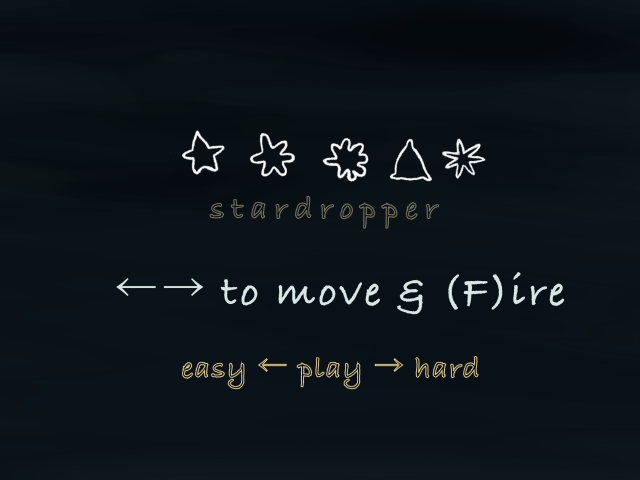
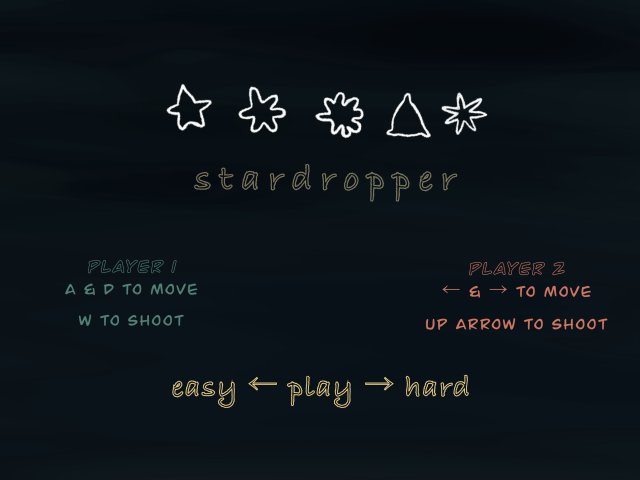
mostly finished, just need sound and fix star candy generate position, add one more burst image, adjust some sizing, then write write up and turn in!

diff --git a/src/scenes/Play.js b/src/scenes/Play.js
@@ -5,14 +5,15 @@ class Play extends Phaser.Scene{
 
  
 
-
     preload(){
         //load images/tiles sprite
         //load google webfont loader script
         this.load.script('webfont', '//ajax.googleapis.com/ajax/libs/webfont/1.4.7/webfont.js');
 
         //texture
-        this.load.image('rocket', 'assets/rocket.png');
+        //art done with pixilart.com 
+        this.load.image('rocket1', 'assets/rocket2.png');
+        this.load.image('rocket2', 'assets/rocket1.png');
         this.load.image('star1', 'assets/star1.png');
         this.load.image('star4', 'assets/star4.png');
         this.load.image('star5', 'assets/star5.png');
@@ -20,42 +21,51 @@ class Play extends Phaser.Scene{
         this.load.image('sky', 'assets/sky.png');
         //load burst128 atlas
         this.load.atlas('burst128', './assets/burst128.png', './assets/burst128.json');
-        //load spritesheet
-        this.load.spritesheet('explosion', './assets/explosion.png', {frameWidth: 64, frameHeight: 32, startFrame:0, endFrame: 9});
+        //load nebula atlas
+        this.load.atlas('nebula', './assets/nebulasprite.png', './assets/nebulasprite.json');
+        //load particle atlas
+        //this.load.atlas('particle', './assets/particles.png', './assets/particles.json');
     }
     create() {
     //override create() from phaser, which is blank
 
         //place tile sprite
         this.sky = this.add.tileSprite(0,0,640,480,"sky").setOrigin(0,0);
-       
+        
+        //top bar
+        this.add.rectangle(5,50,630,16,0xFFD85E).setOrigin(0,0);
         //bottom bar
-        this.add.rectangle(5,433,630,32,0xFFD85E).setOrigin(0,0) 
+        this.add.rectangle(5,433,630,16,0xFFD85E).setOrigin(0,0); 
        
         //declare rockets
-        this.p1Rocket = new Rocket(this, game.config.width/2, 420, 'rocket').setScale(0.5,0.5).setOrigin(0,0);
-        //this.p2Rocket = new Rocket(this, game.config.width/2, 420, 'rocket').setScale(0.5,0.5).setOrigin(0,0);
-        //add spaceships
-        //add more spaceships
-        this.shipHeight = (Math.floor(Math.random()*game.config.height-100)+100);
-        this.ship01 = new Spaceship(this, game.config.width +192, (Math.floor(Math.random()*game.config.height-80)+30), 'star5', 0, 30).setOrigin(0,0);
-        this.ship02 = new Spaceship(this, game.config.width +92, (Math.floor(Math.random()*game.config.height-80)+30), 'star4', 0, 20).setOrigin(0,0);
-        this.ship03 = new Spaceship(this, game.config.width , (Math.floor(Math.random()*game.config.height-80)+30), 'star3', 0, 10).setOrigin(0,0);
-        //define keyboard keys
-        keyF = this.input.keyboard.addKey(Phaser.Input.Keyboard.KeyCodes.F);
+        //P1
+        this.p1Rocket = new Rocket(this, game.config.width/2-100, 420, 'rocket1').setScale(0.5,0.5).setOrigin(0,0);
+        //P2
+        this.p2Rocket = new Rocket2(this, game.config.width/2+100, 420, 'rocket2').setScale(0.5,0.5).setOrigin(0,0);
+      
+
+        //add more spaceships FIX HEIGHT
+        this.ship01 = new Spaceship(this, game.config.width +192, (Math.floor(game.config.height/4)+10), 'star5', 0, 30).setOrigin(0,0);
+        this.ship02 = new Spaceship(this, game.config.width +92, (Math.floor(game.config.height/4)+25), 'star4', 0, 25).setOrigin(0,0);
+        this.ship03 = new Spaceship(this, game.config.width  , (Math.floor(game.config.height/4)+45), 'star3', 0, 20).setOrigin(0,0);
+        this.ship04 = new Spaceship(this, game.config.width +192, (Math.floor(game.config.height/4)+115), 'star4', 0, 10).setOrigin(0,0);
+        this.ship05 = new Spaceship(this, game.config.width +92, (Math.floor(game.config.height/4)+175), 'star5', 0, 5).setOrigin(0,0);
+        //define keyboard keys for player 1 (WAD)
+        keyW = this.input.keyboard.addKey(Phaser.Input.Keyboard.KeyCodes.W);
+        keyA = this.input.keyboard.addKey(Phaser.Input.Keyboard.KeyCodes.A);
+        keyD = this.input.keyboard.addKey(Phaser.Input.Keyboard.KeyCodes.D);
+
+        //define keyboard keys for player 2 (UPLEFTRIGHT)
+        keyUP = this.input.keyboard.addKey(Phaser.Input.Keyboard.KeyCodes.UP);
         keyLEFT = this.input.keyboard.addKey(Phaser.Input.Keyboard.KeyCodes.LEFT);
         keyRIGHT = this.input.keyboard.addKey(Phaser.Input.Keyboard.KeyCodes.RIGHT);
-
-
-        this.anims.create({
-            key: 'explode', 
-            frames: this.anims.generateFrameNumbers('explosion',{start:0, end:9, first:0}),
-            frameRate: 30
-        });
+        //reset key
+        keyF = this.input.keyboard.addKey(Phaser.Input.Keyboard.KeyCodes.F);
 
         //score 
         this.p1Score = 0;
 
+        this.p2Score = 0;
        
 
         //score + endscreen text display settings
@@ -72,17 +82,22 @@ class Play extends Phaser.Scene{
 
         }
 
+
         this.scoreLeft = this.add.text(-10, 15, this.p1Score + " ★", scoreConfig).setOrigin(0,0);
 
+        this.scoreRight = this.add.text(510, 15, this.p1Score + " ★", scoreConfig).setOrigin(0,0);
 
         // game over flag
         this.gameOver = false;
 
-        // 60-second play clock
+    
+        // endgame message
         scoreConfig.fixedWidth = 0;
+        var winner;
         this.clock = this.time.delayedCall(game.settings.gameTimer, ()=>{
-            this.add.text(game.config.width/2, game.config.height/2 - 200, 'GAME OVER', scoreConfig).setOrigin(0.5);
-            this.add.text(game.config.width/2, game.config.height/2 + 100, '(F)ire to restart or ← for Menu', scoreConfig).setOrigin(0.5);
+            if(this.scoreLeft > this.scoreRight){ winner = "player 1";} else {winner = "player 2";}
+            this.add.text(game.config.width/2, game.config.height/2 - 210, winner + ' wins!', scoreConfig).setOrigin(0.5);
+            this.add.text(game.config.width/2, game.config.height/2 + 225, 'Press F to restart or ← for Menu', scoreConfig).setOrigin(0.5);
             this.gameOver = true;
         }, null, this);
 
@@ -91,8 +106,6 @@ class Play extends Phaser.Scene{
     }
 
   
-
-
     update(){
         //check key input for restart
         if(this.gameOver && Phaser.Input.Keyboard.JustDown(keyF)){
@@ -102,37 +115,113 @@ class Play extends Phaser.Scene{
         this.sky.tilePositionX -=4;
 
         if (!this.gameOver){
-             //update rocket
+             //update rockets
             this.p1Rocket.update();
-            //update spaceship
+            this.p2Rocket.update();
+            //update spaceships
             this.ship01.update();
             this.ship02.update();
             this.ship03.update();
+            this.ship04.update();
+            this.ship05.update();
         }
         if (this.gameOver && Phaser.Input.Keyboard.JustDown(keyLEFT)){
             this.scene.start("menuScene");
         }
 
 
-        // check collisions
+        // check collisions for p1
         if(this.checkCollision(this.p1Rocket, this.ship03)){
             //console.log('kaboom ship 03');
             this.p1Rocket.reset();
             this.shipExplode(this.ship03);
+              //p1 score increment and repaint
+            this.p1Score += this.ship03.points;
+            this.scoreLeft.text = this.p1Score + " ★";
         }
 
         if(this.checkCollision(this.p1Rocket, this.ship02)){
             //console.log('kaboom ship 02');
             this.p1Rocket.reset();
             this.shipExplode(this.ship02);
+              //p1 score increment and repaint
+            this.p1Score += this.ship02.points;
+            this.scoreLeft.text = this.p1Score + " ★";
         }
 
         if(this.checkCollision(this.p1Rocket, this.ship01)){
             //console.log('kaboom ship 02');
             this.p1Rocket.reset();
             this.shipExplode(this.ship01);
+              //p1 score increment and repaint
+            this.p1Score += this.ship01.points;
+            this.scoreLeft.text = this.p1Score + " ★";
         }
 
+        if(this.checkCollision(this.p1Rocket, this.ship04)){
+            //console.log('kaboom ship 02');
+            this.p1Rocket.reset();
+            this.shipExplode(this.ship04);
+              //p1 score increment and repaint
+            this.p1Score += this.ship04.points;
+            this.scoreLeft.text = this.p1Score + " ★";
+        }
+
+        if(this.checkCollision(this.p1Rocket, this.ship05)){
+            //console.log('kaboom ship 02');
+            this.p1Rocket.reset();
+            this.shipExplode(this.ship05);
+              //p1 score increment and repaint
+            this.p1Score += this.ship05.points;
+            this.scoreLeft.text = this.p1Score + " ★";
+        }
+
+
+        // check collisions for p2
+        if(this.checkCollision(this.p1Rocket, this.ship03)){
+            //console.log('kaboom ship 03');
+            this.p2Rocket.reset();
+            this.shipExplode(this.ship03);
+             //p2 score increment and repaint
+            this.p2Score += this.ship03.points;
+            this.scoreRight.text = this.p2Score + " ★";
+        }
+
+        if(this.checkCollision(this.p2Rocket, this.ship02)){
+            //console.log('kaboom ship 02');
+            this.p2Rocket.reset();
+            this.shipExplode(this.ship02);
+             //p2 score increment and repaint
+            this.p2Score += this.ship02.points;
+            this.scoreRight.text = this.p2Score + " ★";
+        }
+
+        if(this.checkCollision(this.p2Rocket, this.ship01)){
+            //console.log('kaboom ship 02');
+            this.p2Rocket.reset();
+            this.shipExplode(this.ship01);
+             //p2 score increment and repaint
+            this.p2Score += this.ship01.points;
+            this.scoreRight.text = this.p2Score + " ★";
+        }
+
+        if(this.checkCollision(this.p2Rocket, this.ship04)){
+            //console.log('kaboom ship 02');
+            this.p2Rocket.reset();
+            this.shipExplode(this.ship04);
+             //p2 score increment and repaint
+            this.p2Score += this.ship04.points;
+            this.scoreRight.text = this.p2Score + " ★";
+        }
+
+        if(this.checkCollision(this.p2Rocket, this.ship05)){
+            //console.log('kaboom ship 02');
+            this.p2Rocket.reset();
+            this.shipExplode(this.ship05);
+             //p2 score increment and repaint
+            this.p2Score += this.ship05.points;
+            this.scoreRight.text = this.p2Score + " ★";
+        }
 
 
         
@@ -153,17 +242,10 @@ class Play extends Phaser.Scene{
         //temporarily hide ship
         ship.alpha=0; 
 
-
-        
-       
-    
         // particle effect from https://phaser.io/examples/v3/view/game-objects/particle-emitter/particle-processor and
         // https://phaser.io/examples/v3/view/game-objects/particle-emitter/create-emitter
         // https://photonstorm.github.io/phaser3-docs/Phaser.GameObjects.Particles.Particle.html
-        
-
-        var particles = this.add.particles('star1'); //add image for particle
-        
+        var particles = this.add.particles(ship.texture); //add stars as particle
         var emitter = particles.createEmitter({ //define emitter
            
             speed:100,
@@ -172,19 +254,17 @@ class Play extends Phaser.Scene{
             blendMode: 'ADD'
    
         });
-    
+        
       
         //create emitter explode effect 
         emitter.explode(30, ship.x, ship.y);
-        
         //add random burst after effect onto screen
-        this.burst01 = this.add.sprite(ship.x, ship.y, 'burst128', 'burst'+(Math.floor(Math.random()*4)+1));
+        this.burst01 = this.add.sprite(ship.x, ship.y, 'nebula', 'nebula'+(Math.floor(Math.random()*5)+1));
+        //add firework burst
+        this.burst02 = this.add.sprite(ship.x, ship.y, 'burst128', 'burst'+(Math.floor(Math.random()*4)+1));
         ship.reset(); //reset ship position
         ship.alpha =1; //make ship visible again
 
-        //score increment and repaint
-        this.p1Score += ship.points;
-        this.scoreLeft.text = this.p1Score + " ★";
         //this.sound.play('sfx_explosion');
 
     }

diff --git a/src/scenes/Menu.js b/src/scenes/Menu.js
@@ -10,22 +10,7 @@ class Menu extends Phaser.Scene{
         this.load.image('title', './assets/title.png');
     }
     create() {
-         //text display
-         /*
-         let menuConfig = {
-            fontFamily: 'Courier',
-            fontSize: '28px',
-            backgroundColor: '#F3B141',
-            color: '#843605',
-            align: 'right',
-            padding: {
-                top: 5,
-                bottom: 5,
-            },
-            fixedWidth: 0
-
-        }
-        */
+        
         //stardropper title/menu screen
         this.add.image(game.config.width/2,game.config.height/2,'title');
 
@@ -44,7 +29,7 @@ class Menu extends Phaser.Scene{
                 spaceshipSpeed:3,
                 gameTimer:60000
             }
-            this.sound.play('sfx_select');
+            //this.sound.play('sfx_select');
             this.scene.start("playScene");
 
         }
@@ -54,7 +39,7 @@ class Menu extends Phaser.Scene{
                 spaceshipSpeed:5,
                 gameTimer:25000
             }
-            this.sound.play('sfx_select');
+            //this.sound.play('sfx_select');
             this.scene.start("playScene");
         }
     }

diff --git a/src/prefabs/Rocket2.js b/src/prefabs/Rocket2.js
@@ -1,7 +1,6 @@
-// Rocket1 prefab
-// WAD
-class Rocket extends Phaser.GameObjects.Sprite{
-    
+// Rocket2 prefab
+// UPLEFTRIGHT
+class Rocket2 extends Phaser.GameObjects.Sprite{
     constructor(scene, x, y, texture, frame){
         super(scene, x, y, texture, frame);
 
@@ -14,15 +13,15 @@ class Rocket extends Phaser.GameObjects.Sprite{
     update(){
         // left/right movement
         if(!this.isFiring){
-            if(keyA.isDown && this.x >= 10){
+            if(keyLEFT.isDown && this.x >= 10){
                 this.x -= 2;
                 
-            }else if (keyD.isDown && this.x <= 630){
+            }else if (keyRIGHT.isDown && this.x <= 630){
                 this.x += 2;
             }
         }
         // fire button 
-        if(Phaser.Input.Keyboard.JustDown(keyW) && !this.isFiring){
+        if(Phaser.Input.Keyboard.JustDown(keyUP) && !this.isFiring){
             this.isFiring = true;
             //this.sfxRocket.play(); //sfx
         }

diff --git a/src/main.js b/src/main.js
@@ -15,9 +15,12 @@ game.settings = {
     spaceshipSpeed: 3,
     gameTimer: 60000
 }
-//reserve some keyboard variables
-let keyF, keyLEFT, keyRIGHT;
-//reserve player 2 keyboard var
+//reserve player1 keyboard variables
+let keyW, keyA, keyD;
+//reserve player2 keyboard variables
+let keyUP, keyLEFT, keyRIGHT;
+//reset key
+let keyF;
 
 //loading google text, taken from: https://phaser.io/examples/v2/text/google-webfonts
 let WebFontConfig = {

diff --git a/index.html b/index.html
@@ -9,6 +9,7 @@
     <link href="https://fonts.googleapis.com/css2?family=Shadows+Into+Light&display=swap" rel="stylesheet">
     <script src= "./lib/phaser.js"></script>
     <script src= "./src/prefabs/Rocket.js"></script>
+    <script src= "./src/prefabs/Rocket2.js"></script>
     <script src= "./src/prefabs/Spaceship.js"></script>
     <script src= "./src/scenes/Menu.js"></script>
     <script src= "./src/scenes/Play.js"></script>
